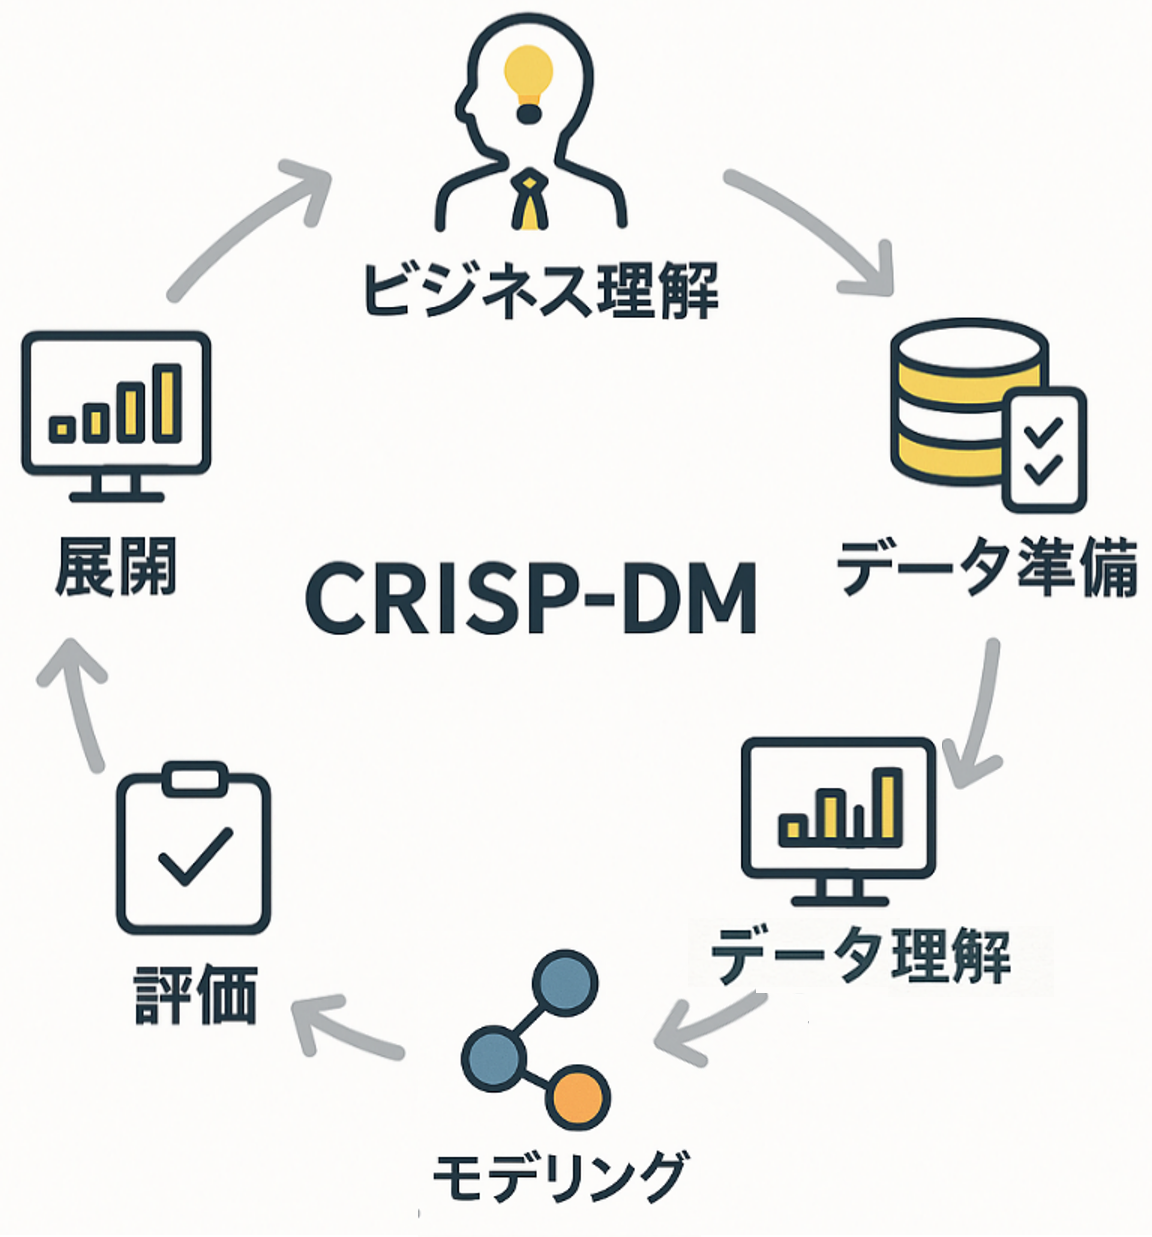
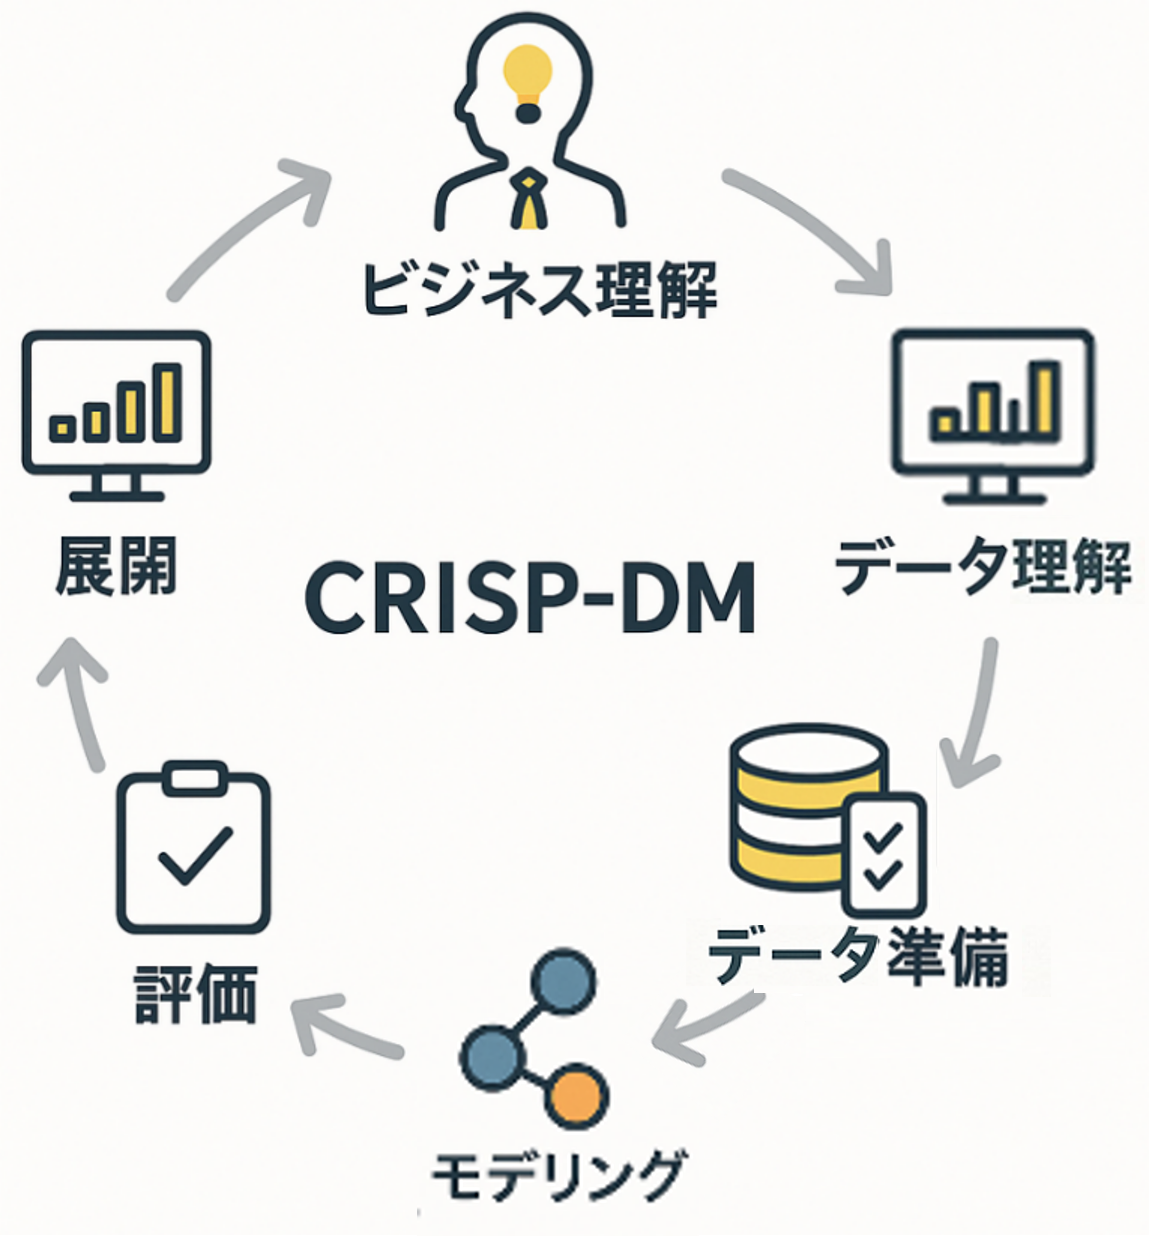
20250516公開予定分_イラスト順序の修正

diff --git a/articles/yyyymmdd_stockmemo.md b/articles/yyyymmdd_stockmemo.md
@@ -39,7 +39,7 @@ published: false  #変えない
 | コード |       銘柄名       |       決算日   |  権利付最終日  | 備考 |
 |  ----  |       ----         |        ----    |      ----      | ---- |
 |  4369  | トリケミカル研究所 |     20250530   |    20250729★  |決算日5/30 以降に注文      |
-|  3421  | 稲葉製作所         |     20250613★ |    20250729    |テクニカルでエントリーライン判断 |
+|  3421  | 稲葉製作所         |     20250613★ |    20250729    |**テクニカルでエントリーライン判断** |
 |  6814  | 古野電機           |     20250709★ |    20250827    |テクニカルでエントリーライン判断 |
 |  5108  | ブリジストン       |     20250515   |    20250626★  |**決算日5/15 以降に注文**      |
 |  1911  | 住友林業           |     202508XX   |    20250626★  |テクニカルでエントリーライン判断  |
@@ -190,6 +190,8 @@ published: false  #変えない
 |  ----  |          ----            |
 |   501  | 必ず、**権利付最終日の直前ではない**ことを確認する。 |
 |   502  | 必ず、**決算日の直前ではない**ことを確認する。 |
+|   503  | 9:00直前の板の厚さを確認する。 |
+|   504  | 方向感の判断に迷ったらトレードしない。 |
 
 <br>
 ## 600_Holding
